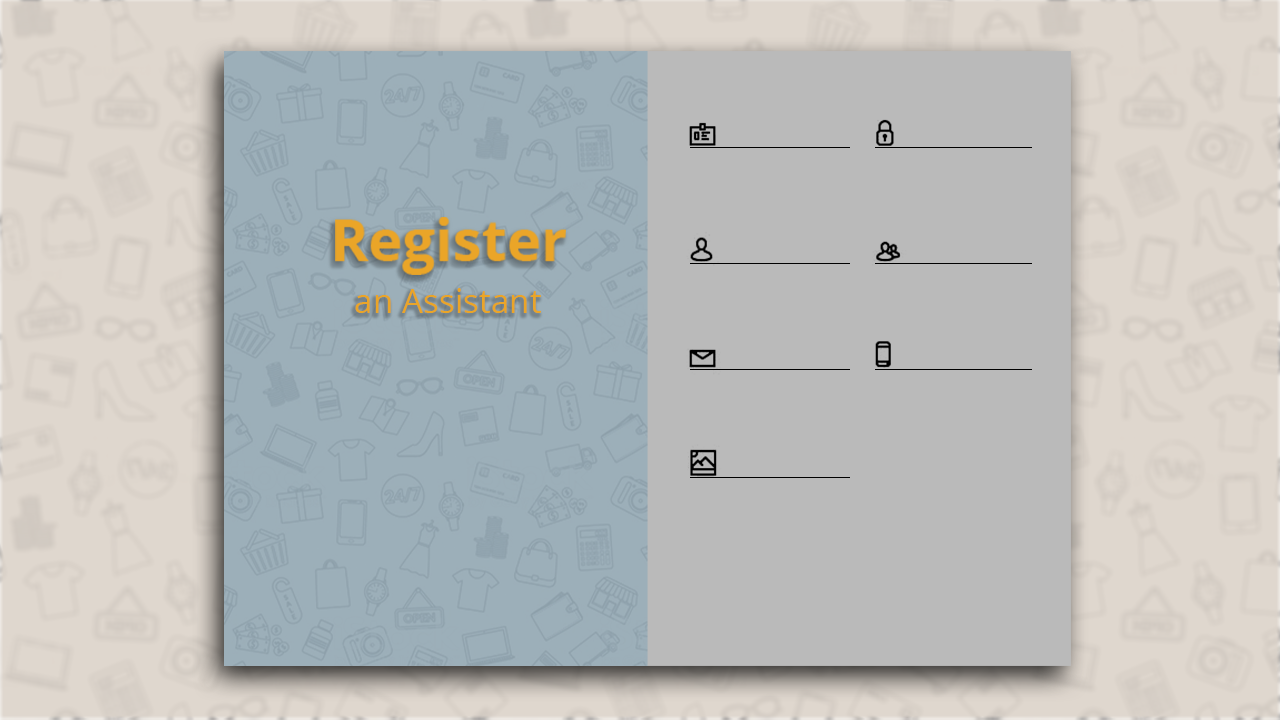
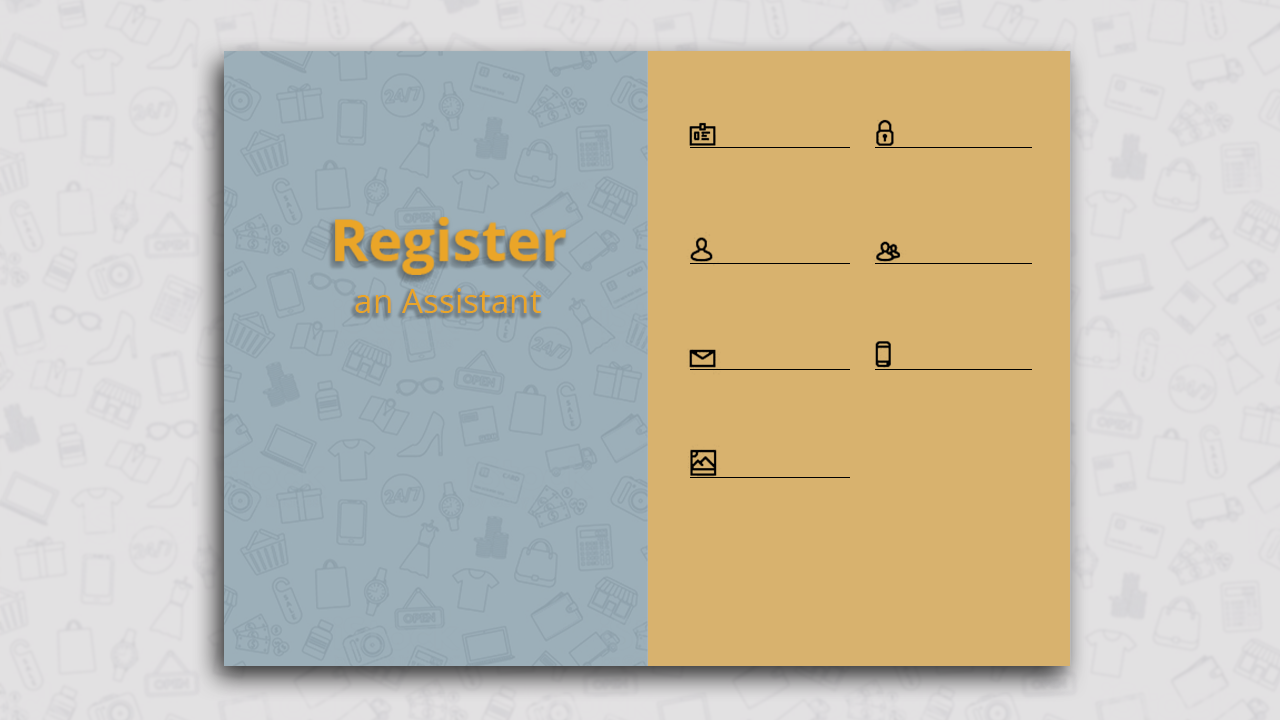
background ha avaz shodan (1)

diff --git a/src/main/resources/Styles.CSS b/src/main/resources/Styles.CSS
@@ -125,6 +125,10 @@
         -fx-background-image: url("design/userZone.png");
     }
 
+    .mainMenuBackground{
+        -fx-background-image: url("design/mainMenuBack.png");
+    }
+
     .myTextField{
       -fx-border-color: transparent;
       -fx-border-width: 0 0 0 0;
